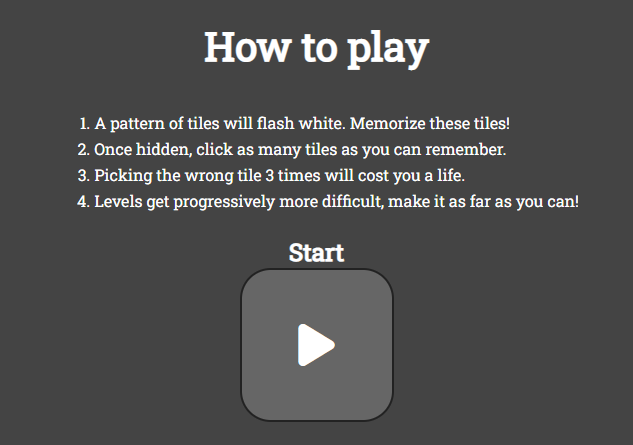
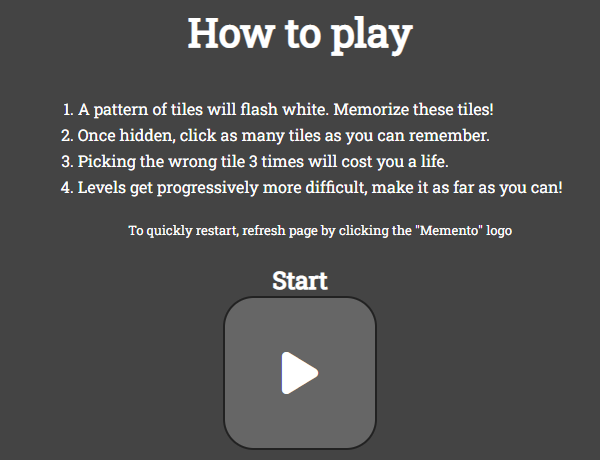
Add quick restart instructions to How to play menu

Changed region(s): [[0.09, 0.2045, 0.93, 0.9933], [0.3, 0.0292, 0.69, 0.1753], [0.45, 0.7303, 0.54, 0.8764]]

diff --git a/assets/js/script.js b/assets/js/script.js
@@ -370,6 +370,7 @@ function generateHowToPlay(){
             <li>Once hidden, click as many tiles as you can remember.</li>
             <li>Picking the wrong tile 3 times will cost you a life.</li>
             <li>Levels get progressively more difficult, make it as far as you can!</li>
+            <li id="small-text">To quickly restart, refresh page by clicking the "Memento" logo</li>
         </ol>
         <h2>Start</h2>
         <div class="play-button">

diff --git a/assets/css/style.css b/assets/css/style.css
@@ -58,6 +58,13 @@ h2{
     margin-bottom: 5px;
 }
 
+#how-to-play #small-text{
+    font-size: small;
+    list-style: none;
+    text-align: center;
+    margin-top: 5%;
+}
+
 /* retry window*/
 #retry-buttons{
     display: flex;
@@ -197,6 +204,10 @@ footer a:hover{
     #how-to-play h1{
         font-size: 2em;
         margin: 10px 0 0;
+    }
+
+    #how-to-play #small-text{
+        font-size: x-small;
     }
 
     .play-button{

diff --git a/README.md b/README.md
@@ -85,6 +85,17 @@ This website was designed to:
 
   - The links both open in a new window/tab on click
 
+## Future Features
+As the functionality of grid generation and tile interaction have already been implemented, re-using these for different gamemodes might prove an interesting idea
+- Time Trial
+  - Final score based on time passed rather than tiles clicked
+  - Less focus on lives, incorrect tile selections add seconds to the timer instead
+  - Finish line is at specified level rather than being infinite
+- "Game" mode
+  - Less serious approach, features a limited amount of hints
+  - Hints can be restored by selecting tiles that glow yellow instead of white during reveal
+  - Hint tiles are rare towards the start but become more common at higher levels
+
 # Development
 
 ## GitHub Pages
